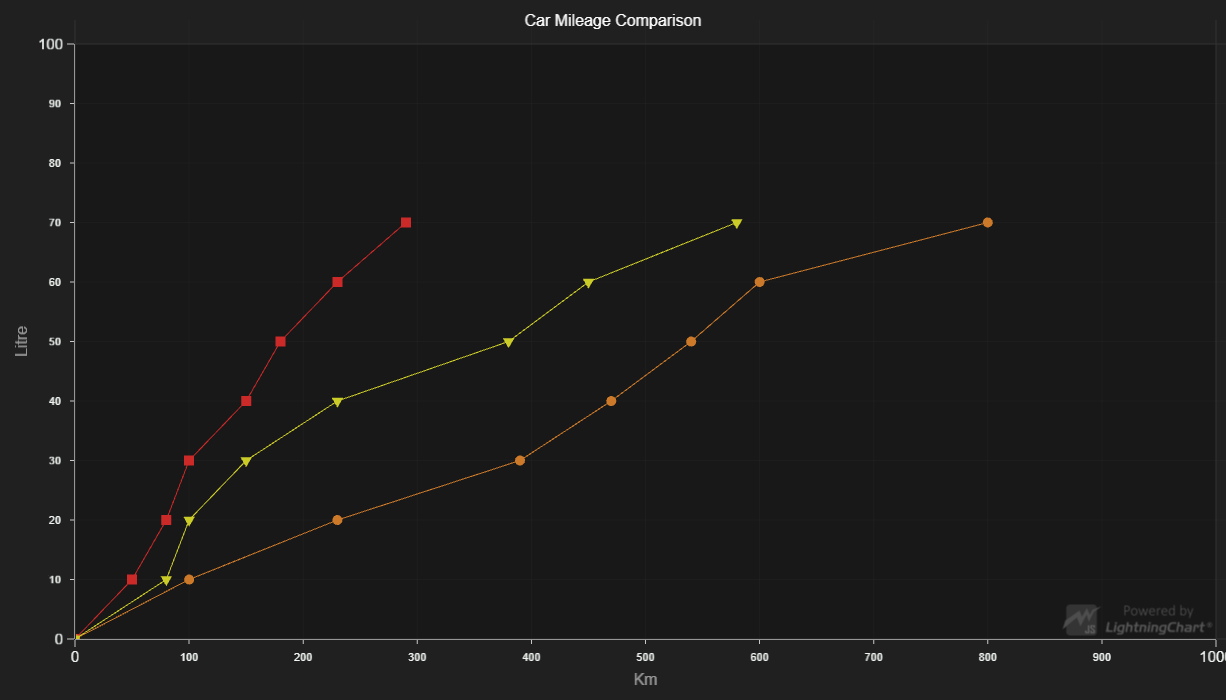
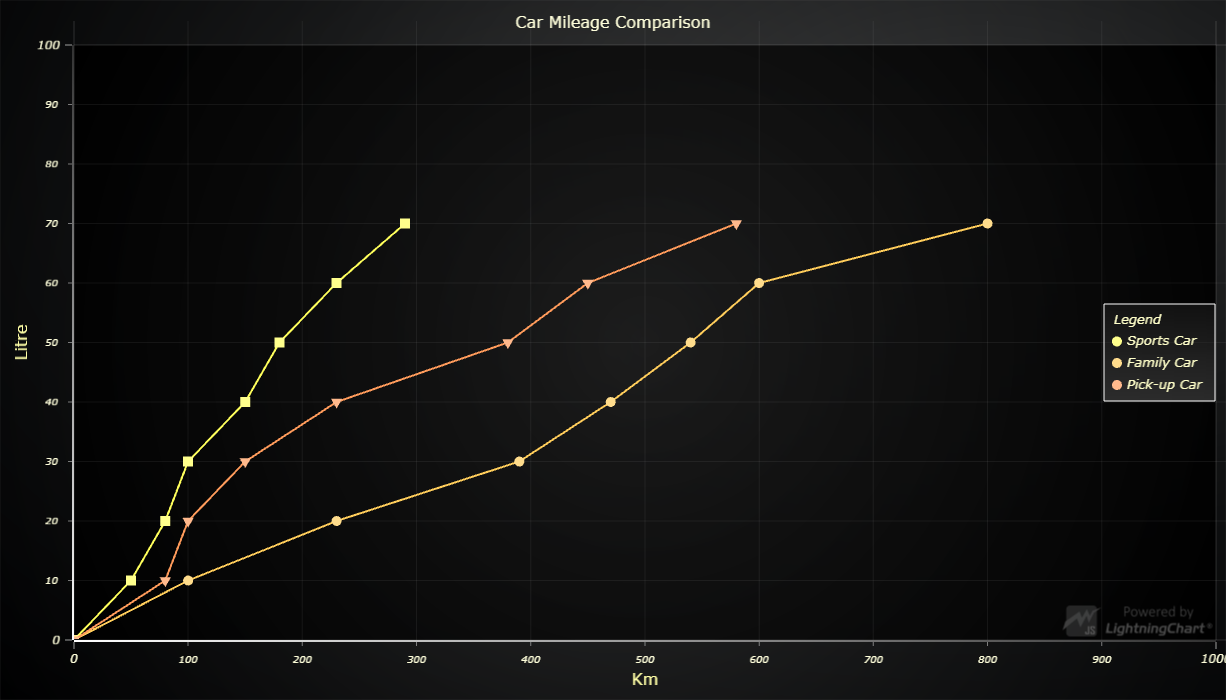
Update LCJS version

diff --git a/src/index.js b/src/index.js
@@ -7,21 +7,15 @@ const lcjs = require('@arction/lcjs')
 // Extract required parts from LightningChartJS.
 const {
     lightningChart,
-    ColorPalettes,
-    SolidFill,
     PointShape,
     Themes
 } = lcjs
 
-// ----- Cache styles -----
 const pointSize = 10
-const palette = ColorPalettes.warm(3)
-const colors = [0, 1, 2].map(palette)
-const fillStyles = colors.map(color => new SolidFill({ color }))
 
 // Create a XY Chart.
 const chart = lightningChart().ChartXY({
-    // theme: Themes.dark
+    // theme: Themes.darkGold
 })
     .setTitle('Car Mileage Comparison')
 
@@ -31,8 +25,6 @@ const chart = lightningChart().ChartXY({
 // Add line series with rectangle-shaped points.
 chart.addPointLineSeries()
     .setName('Sports Car')
-    .setPointFillStyle(fillStyles[0])
-    .setStrokeStyle((strokeStyle) => strokeStyle.setFillStyle(fillStyles[0]))
     .setPointSize(pointSize)
     .add([
         { x: 0, y: 0 },
@@ -49,8 +41,6 @@ chart.addPointLineSeries()
 chart.addPointLineSeries({ pointShape: PointShape.Circle })
     .setName('Family Car')
     .setPointSize(pointSize)
-    .setPointFillStyle(fillStyles[1])
-    .setStrokeStyle((strokeStyle) => strokeStyle.setFillStyle(fillStyles[1]))
     .add([
         { x: 0, y: 0 },
         { x: 100, y: 10 },
@@ -66,8 +56,6 @@ chart.addPointLineSeries({ pointShape: PointShape.Circle })
 chart.addPointLineSeries({ pointShape: PointShape.Triangle })
     .setName('Pick-up Car')
     .setPointSize(pointSize)
-    .setPointFillStyle(fillStyles[2])
-    .setStrokeStyle((strokeStyle) => strokeStyle.setFillStyle(fillStyles[2]))
     .add([
         { x: 0, y: 0 },
         { x: 80, y: 10 },
@@ -91,3 +79,6 @@ chart.setAutoCursor((cursor) => cursor
     .setTickMarkerXAutoTextStyle(true)
     .setTickMarkerYAutoTextStyle(true)
 )
+
+// Add Legend Box.
+const legend = chart.addLegendBox().add(chart)

diff --git a/webpack.config.js b/webpack.config.js
@@ -69,7 +69,8 @@ module.exports = {
         }),
         new CopyWebpackPlugin({
             patterns: [
-                { from: './assets/**/*', to: './examples/assets', flatten: true, noErrorOnMissing: true }
+                { from: './assets/**/*', to: './examples/assets', flatten: true, noErrorOnMissing: true },
+                { from: './node_modules/@arction/lcjs/dist/resources', to: 'resources', noErrorOnMissing: true },
             ]
         })
     ]

diff --git a/README.md b/README.md
@@ -141,12 +141,12 @@ Direct developer email support can be purchased through a [Support Plan][4] or b
 © Arction Ltd 2009-2020. All rights reserved.
 
 
-[Color palettes]: https://www.arction.com/lightningchart-js-api-documentation/v3.0.1/globals.html#colorpalettes
-[XY cartesian chart]: https://www.arction.com/lightningchart-js-api-documentation/v3.0.1/classes/chartxy.html
-[Point-line series]: https://www.arction.com/lightningchart-js-api-documentation/v3.0.1/classes/pointlineseries.html
-[RGBA color factory]: https://www.arction.com/lightningchart-js-api-documentation/v3.0.1/globals.html#colorrgba
-[Solid FillStyle]: https://www.arction.com/lightningchart-js-api-documentation/v3.0.1/classes/solidfill.html
-[Solid LineStyle]: https://www.arction.com/lightningchart-js-api-documentation/v3.0.1/classes/solidline.html
-[Individual point coloring]: https://www.arction.com/lightningchart-js-api-documentation/v3.0.1/classes/individualpointfill.html
-[Point shapes]: https://www.arction.com/lightningchart-js-api-documentation/v3.0.1/enums/pointshape.html
+[Color palettes]: https://www.arction.com/lightningchart-js-api-documentation/v3.1.0/globals.html#colorpalettes
+[XY cartesian chart]: https://www.arction.com/lightningchart-js-api-documentation/v3.1.0/classes/chartxy.html
+[Point-line series]: https://www.arction.com/lightningchart-js-api-documentation/v3.1.0/classes/pointlineseries.html
+[RGBA color factory]: https://www.arction.com/lightningchart-js-api-documentation/v3.1.0/globals.html#colorrgba
+[Solid FillStyle]: https://www.arction.com/lightningchart-js-api-documentation/v3.1.0/classes/solidfill.html
+[Solid LineStyle]: https://www.arction.com/lightningchart-js-api-documentation/v3.1.0/classes/solidline.html
+[Individual point coloring]: https://www.arction.com/lightningchart-js-api-documentation/v3.1.0/classes/individualpointfill.html
+[Point shapes]: https://www.arction.com/lightningchart-js-api-documentation/v3.1.0/enums/pointshape.html
 
